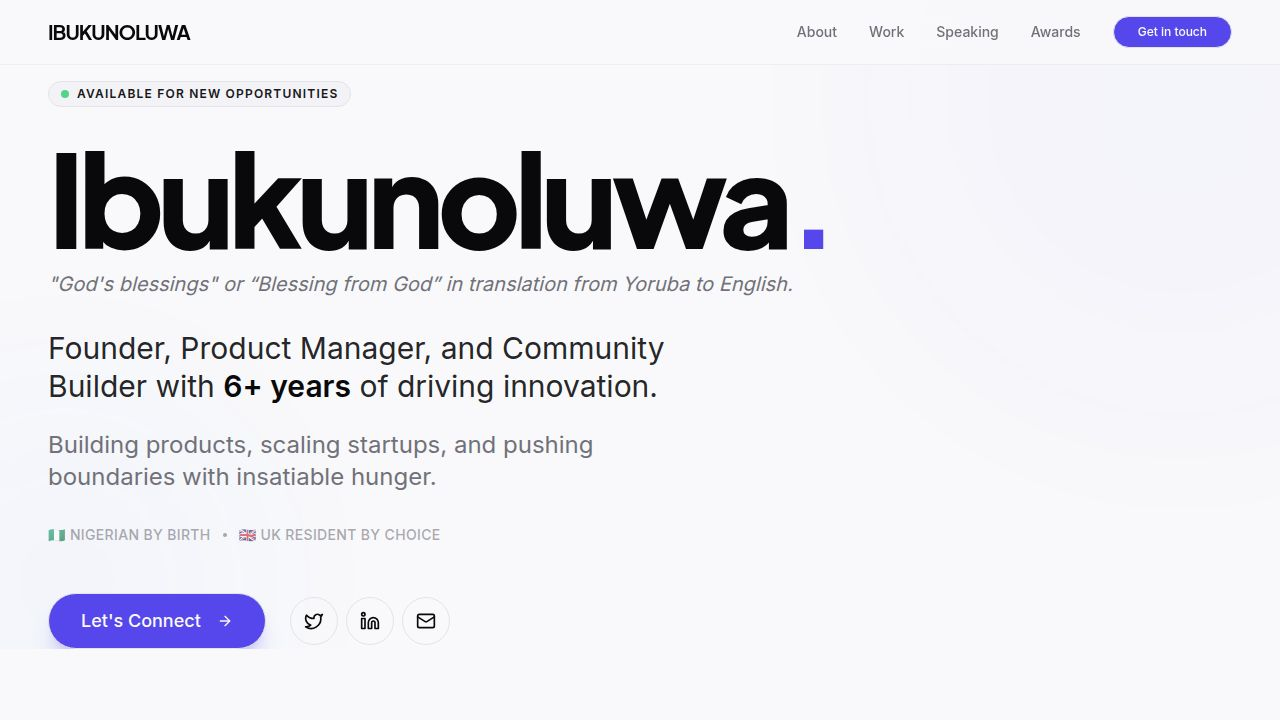
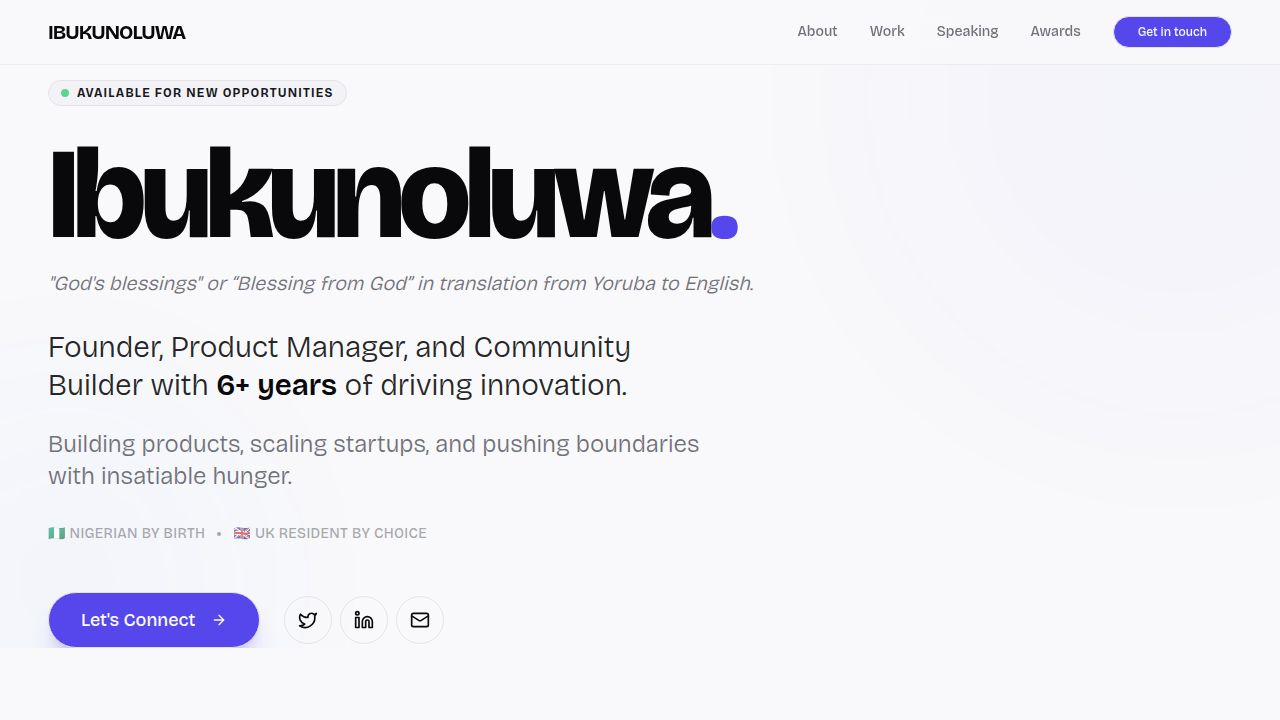
Update website font to Bricolage Grotesque across all pages
Modify client/index.html to import the Bricolage Grotesque font and update CSS variables in client/src/index.css to use it for sans-serif and display fonts.

Replit-Commit-Author: Agent
Replit-Commit-Session-Id: b2f2c51c-0e6c-4430-97e9-13dbe244bcd4
Replit-Commit-Checkpoint-Type: full_checkpoint
Replit-Commit-Event-Id: dcc5dd20-4eea-4455-ba82-da8f34fad7dd
Replit-Commit-Screenshot-Url: https://storage.googleapis.com/screenshot-production-us-central1/964bb60f-ace3-4c36-bc35-44fc9a2babbc/b2f2c51c-0e6c-4430-97e9-13dbe244bcd4/9qwPXR3
Replit-Helium-Checkpoint-Created: true

diff --git a/client/index.html b/client/index.html
@@ -14,10 +14,11 @@
     <meta name="twitter:description" content="Welcome to the personal portfolio of Ibukunoluwa Salau" />
 
     <link rel="icon" type="image/png" href="/favicon.png" />
+    
+    <!-- Importing Bricolage Grotesque -->
     <link rel="preconnect" href="https://fonts.googleapis.com">
     <link rel="preconnect" href="https://fonts.gstatic.com" crossorigin>
-    <!-- Importing Plus Jakarta Sans as a stand-in for National (similar modern grotesque) and Inter for UI/Body -->
-    <link href="https://fonts.googleapis.com/css2?family=Inter:wght@400;500;600&family=Plus+Jakarta+Sans:wght@400;500;600;700;800&display=swap" rel="stylesheet">
+    <link href="https://fonts.googleapis.com/css2?family=Bricolage+Grotesque:opsz,wght@12..96,200..800&display=swap" rel="stylesheet">
   </head>
   <body>
     <div id="root"></div>

diff --git a/client/src/index.css b/client/src/index.css
@@ -4,8 +4,8 @@
 @custom-variant dark (&:is(.dark *));
 
 @theme inline {
-  --font-sans: "Inter", sans-serif;
-  --font-display: "Plus Jakarta Sans", sans-serif;
+  --font-sans: "Bricolage Grotesque", sans-serif;
+  --font-display: "Bricolage Grotesque", sans-serif;
 
   --radius-sm: calc(var(--radius) - 4px);
   --radius-md: calc(var(--radius) - 2px);
